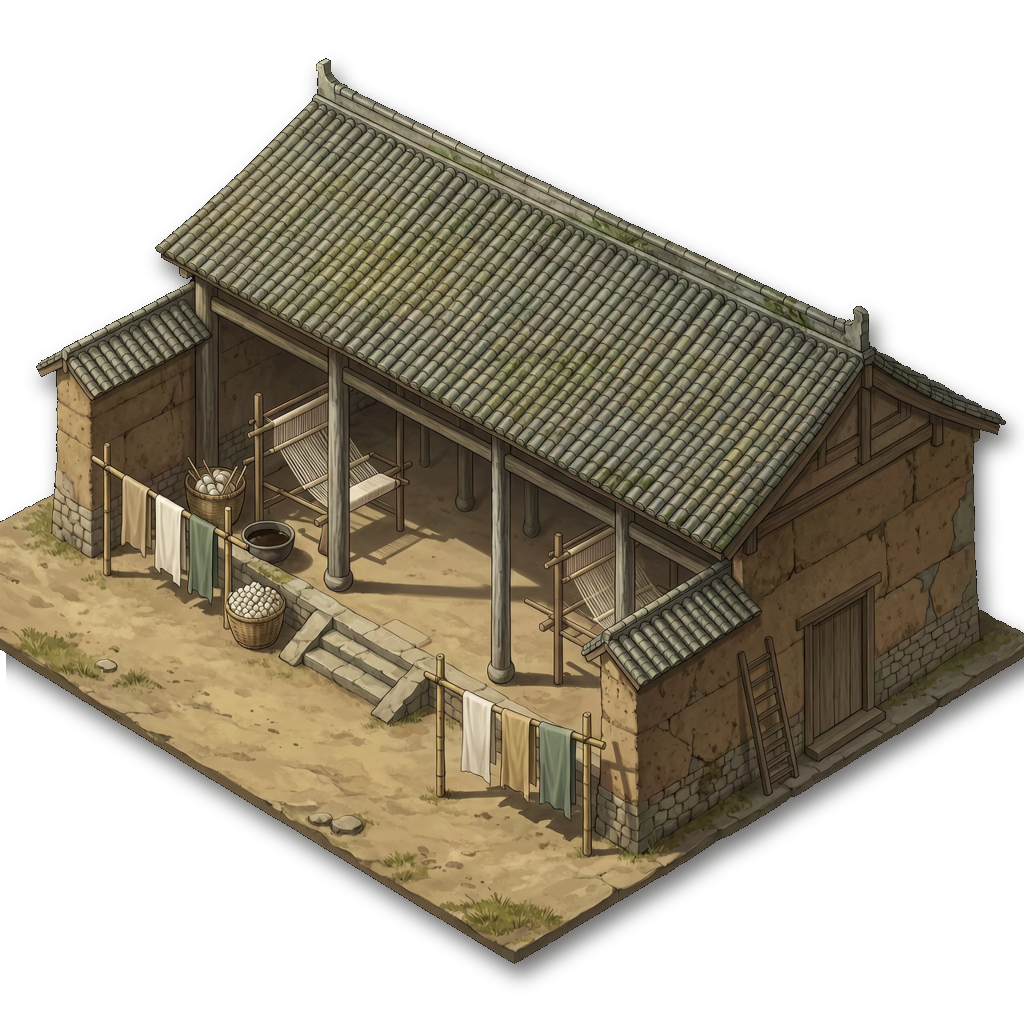
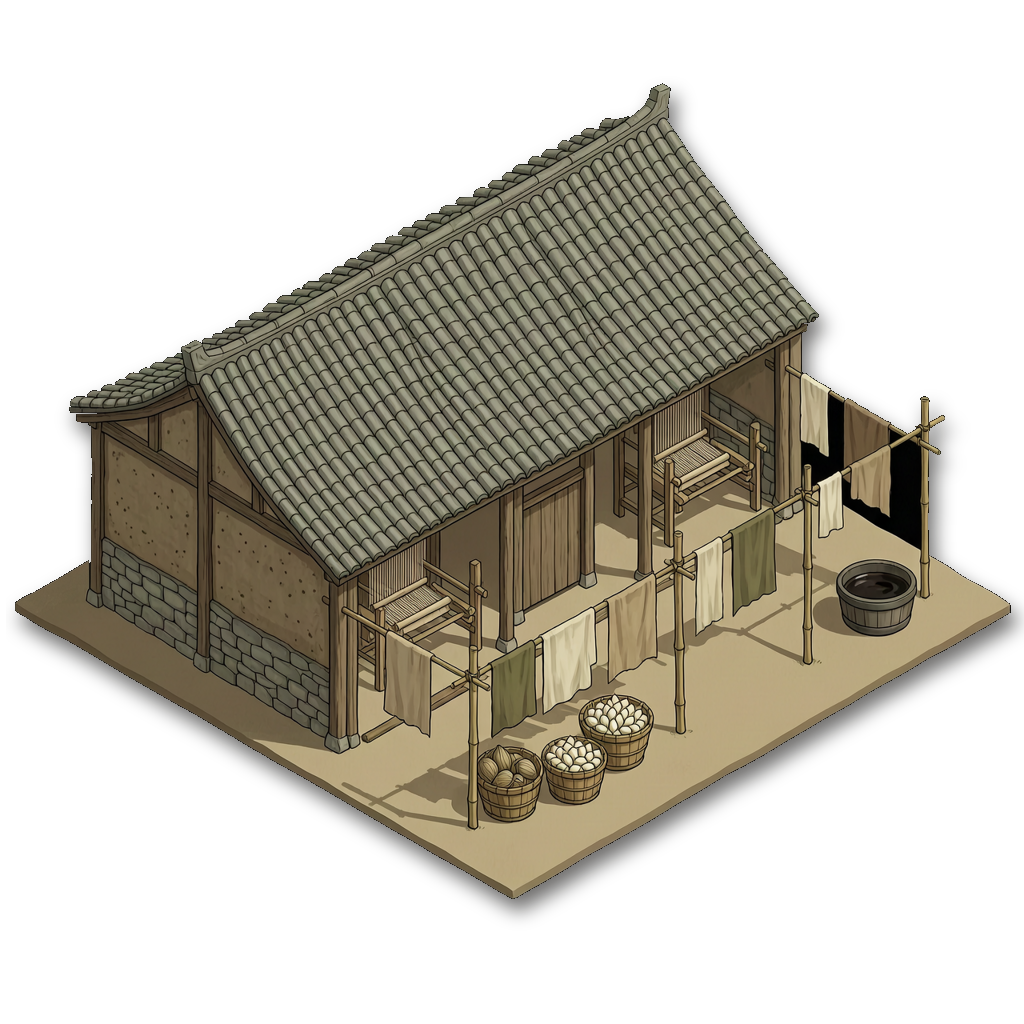
feat(iso): 反馈迭代——20栋建筑重画为真2:1等距精灵(走A,菱形footprint对齐地块,角度#4+对齐#1解决)+建筑锚点按footprint前下顶点+相机开局居中地图中心(#5不居中)+暗土底色+tile 96/原生resize

diff --git a/src/renderer/render/MapRenderer.ts b/src/renderer/render/MapRenderer.ts
@@ -209,14 +209,25 @@ export class MapRenderer {
     this.refreshViewportMask();
   }
 
-  /** v1.0 #5：重置缩放与平移到默认（zoom=1, scroll=0；此时由 originX/originY 保证地图居中）。 */
+  /** v1.0 #5：重置——居中到地图中心 tile（等距大地图下比 scroll=0 更"对准聚落区"）。 */
   resetView(): void {
     if (this.destroyed) return;
     const cam = this.scene.cameras.main;
     if (typeof cam.setZoom === 'function') cam.setZoom(1);
-    cam.scrollX = 0;
-    cam.scrollY = 0;
+    this.centerOnTile(Math.floor(this.width / 2), Math.floor(this.height / 2));
     this.refreshViewportMask();
+  }
+
+  /** 把相机居中到某格（世界点 origin+isoCenter 落在可用视口中心）。初始 + reset 用。 */
+  centerOnTile(gx: number, gy: number): void {
+    if (this.destroyed) return;
+    const cam = this.scene.cameras.main;
+    const c = this.isoCenter(gx, gy);
+    const z = (cam.zoom as number | undefined) || 1;
+    const vp = this.computeViewportRect(cam.width, cam.height);
+    cam.scrollX = (this.originX + c.x) - (vp.x + vp.w / 2) / z;
+    cam.scrollY = (this.originY + c.y) - (vp.y + vp.h / 2) / z;
+    this.clampScroll();
   }
 
   /**
@@ -313,6 +324,13 @@ export class MapRenderer {
 
     this.bakeTerrain(accessor);
     this.bakeResourceNodes(accessor);
+
+    // 等距大地图：开局把相机居中到地图中心（聚落区），而非几何包围盒中心，避免一进来看着偏。
+    this.centerOnTile(Math.floor(this.width / 2), Math.floor(this.height / 2));
+    // 地图外/菱形空角的底色用暗土色，避免露出刺眼纯黑（比 BG_INK 略暖、低调）。
+    if (typeof scene.cameras.main.setBackgroundColor === 'function') {
+      scene.cameras.main.setBackgroundColor(0x241d14);
+    }
   }
 
   /**
@@ -433,10 +451,11 @@ export class MapRenderer {
           im.setTexture(def.assetKey);
           this.buildingImageLastKey[sigilIdx] = def.assetKey;
         }
-        // bottom-center 锚在 footprint 前下顶点；方形原画按块宽等比（建筑由此前下角向上"立"起）
+        // 等距原画自带菱形 footprint：bottom-center 锚在 tile footprint 的前下顶点，
+        // 宽度=footprint 等距宽 → 原画的菱形地基正好叠在地块菱形上，建筑由此向上"立"起。
         im.setOrigin(0.5, 1);
         im.setPosition(this.originX + cx, this.originY + frontY);
-        im.setDisplaySize(isoW, isoW);
+        im.setDisplaySize(isoW * 1.05, isoW * 1.05);
         im.setAlpha(isWorking ? 1 : 0.55);
         im.setDepth(depth);
         im.setVisible(true);

diff --git a/scripts/gen_buildings_art.py b/scripts/gen_buildings_art.py
@@ -14,7 +14,24 @@ from pathlib import Path
 from concurrent.futures import ThreadPoolExecutor, as_completed
 
 sys.path.insert(0, "D:/code/scripts")
-import gen_wanxiang_batch as gw  # noqa: E402  复用 make_prompt / submit_one / poll_one / Job / STYLE_TAIL
+import gen_wanxiang_batch as gw  # noqa: E402  复用 submit_one / poll_one / Job
+
+# 2026-06-03：改真等距(2:1 dimetric)建筑精灵——footprint 是菱形、与等距地面网格对齐（用户选 A 重画）。
+ISO_STYLE = (
+    "TRUE ISOMETRIC video-game building sprite, strict 2:1 dimetric projection viewed from the fixed classic "
+    "isometric camera angle (exactly like Age of Empires II, Caesar III, Pharaoh, Nebuchadnezzar isometric "
+    "building sprites). The building stands on a FLAT DIAMOND/RHOMBUS ground footprint that follows the 2:1 "
+    "isometric grid (ground tile edges recede at the isometric angle — NOT a square, NOT a front-on 3/4 view). "
+    "Camera looks down at the isometric angle: you see the roof and two walls in iso. "
+    "Spring and Autumn period (770-476 BC) pre-imperial bronze-age rural China: rammed-earth walls, raw timber, "
+    "weathered grey unglazed tile roofs, low fieldstone base. NO glaze, NO vermilion lacquer, NO flying upturned "
+    "eaves, NO imperial features. Painted in Anno1404 / Nebuchadnezzar concept-art style, heavily desaturated "
+    "earthy tones, thick visible brushwork, ultra-detailed. Pure pitch-black void background (will be cut to "
+    "transparent), the diamond footprint centered in frame, the whole building fully visible with a small margin. "
+    "Cinematic light from the upper-right. "
+    "ABSOLUTELY NOT: front-on elevation, 3/4 perspective, square footprint, anime, manga, cartoon, flat vector, "
+    "cel shading, 3D PBR render, text, watermark, frame, people."
+)
 
 # (bld_id, 建筑描述)——春秋(770-476 BC)写实，材料=夯土/原木/灰陶瓦/毛石，含完整性强制(门/梯/阶)
 BUILDINGS: list[tuple[str, str]] = [
@@ -72,7 +89,7 @@ def main() -> int:
     out_dir = Path(args.out)
     out_dir.mkdir(parents=True, exist_ok=True)
     only = {x.strip() for x in args.only.split(",") if x.strip()}
-    jobs = [gw.Job(id=bid, desc=d, prompt=gw.make_prompt(d)) for bid, d in BUILDINGS if not only or bid in only]
+    jobs = [gw.Job(id=bid, desc=d, prompt=f"{d} {ISO_STYLE}") for bid, d in BUILDINGS if not only or bid in only]
     if not jobs:
         print(f"[FAIL] no jobs match --only={args.only}")
         return 2
